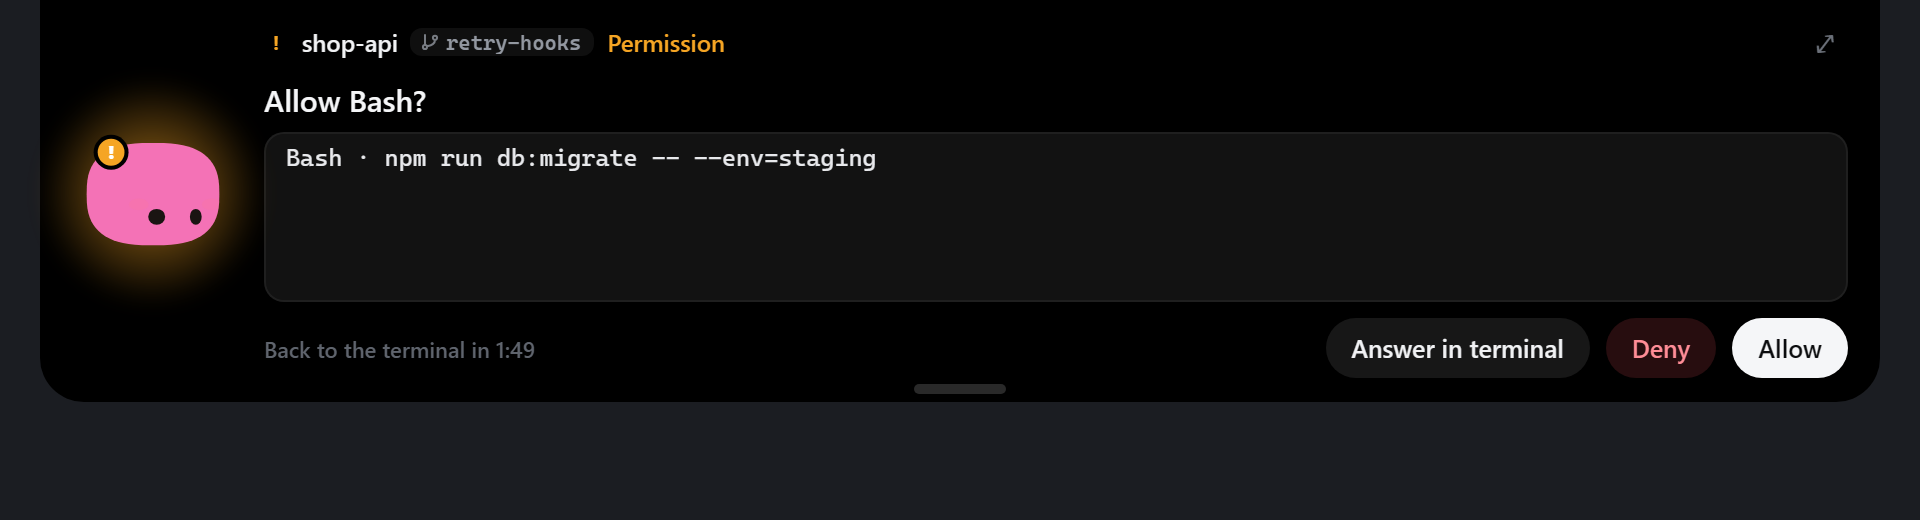
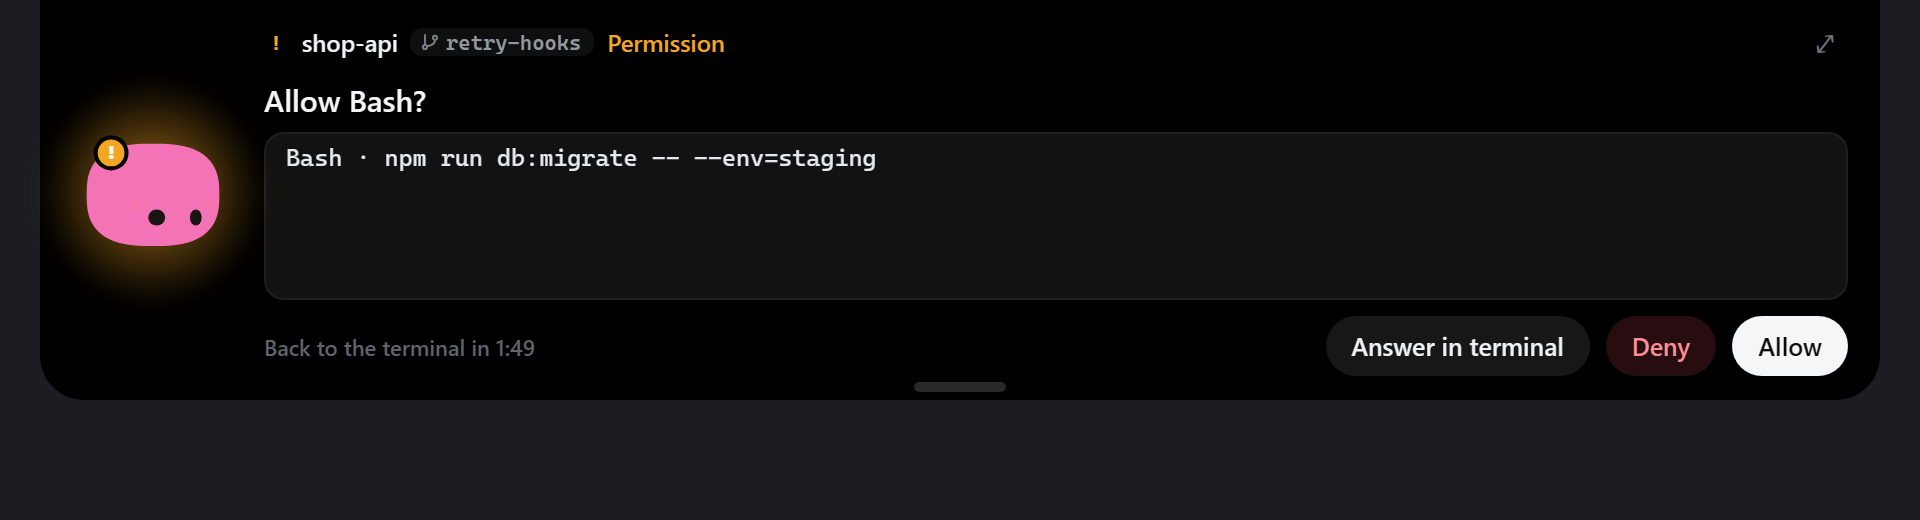
Let the session content sit on the island without its own box

diff --git a/src/style.css b/src/style.css
@@ -453,7 +453,8 @@ body {
 
 .x-main { display: grid; grid-template-columns: minmax(0, 1fr) var(--acct-w, 190px); grid-template-rows: minmax(0, 1fr); gap: 8px; flex: 1 1 auto; min-height: 0; }
 
-.x-session { display: flex; flex-direction: column; padding: 9px 12px 8px; min-height: 0; overflow: hidden; }
+/* The session sits on the island itself (no box); its left edge moves toward Buddy, the padding stays. */
+.x-session { display: flex; flex-direction: column; padding: 9px 12px 8px; margin-left: -8px; min-height: 0; overflow: hidden; background: none; border: 0; border-radius: 0; }
 .x-head { display: flex; flex-direction: column; gap: 3px; flex: 0 0 auto; }
 .x-title { display: flex; align-items: center; gap: 6px; min-width: 0; height: 20px; white-space: nowrap; }
 .x-name { font: 600 14px var(--font); color: var(--ink); }

diff --git a/src/core/layout.ts b/src/core/layout.ts
@@ -85,8 +85,8 @@ export function botPosition(mode: IslandMode, view: IslandViewName): BotPlacemen
       return { cx: 34, cy: 32, diameter: 38, opacity: 1 };
     case "expanded":
       if (view === "greeting") return { cx: 320, cy: 90, diameter: 0, opacity: 0 };
-      // The session view's tab row spans the whole island: Buddy sits below it.
-      if (view === "session") return { cx: 56, cy: 112, diameter: 58, opacity: 1 };
+      // The session view's tab row spans the whole island: Buddy sits below it, level with the project-name line.
+      if (view === "session") return { cx: 56, cy: 71, diameter: 58, opacity: 1 };
       return { cx: 56, cy: 96, diameter: 58, opacity: 1 };
   }
 }
